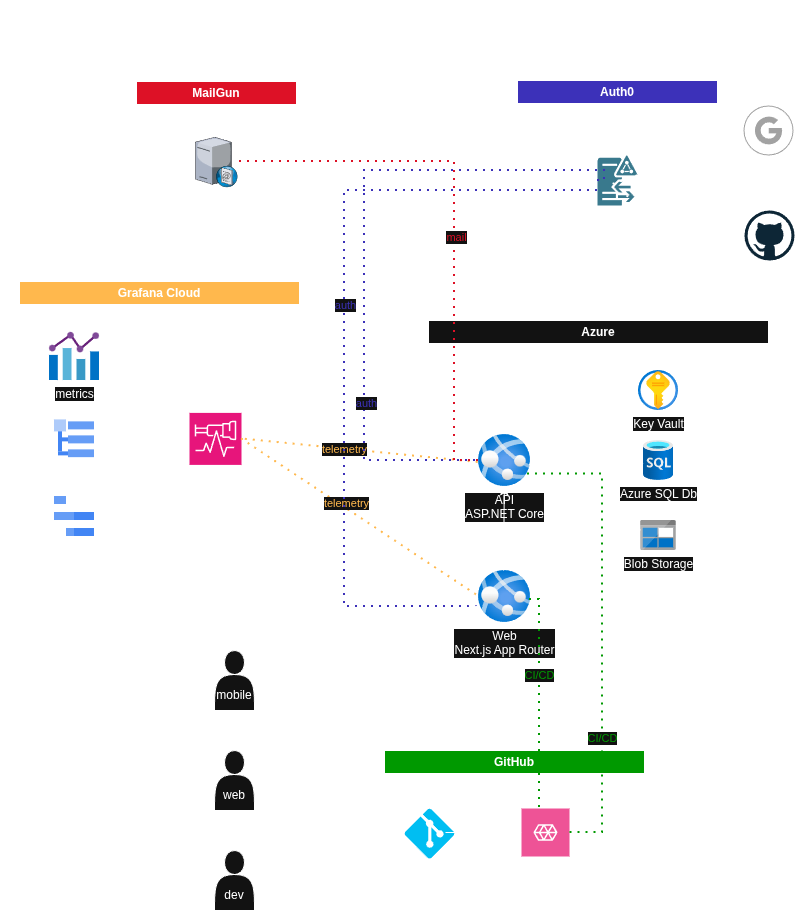
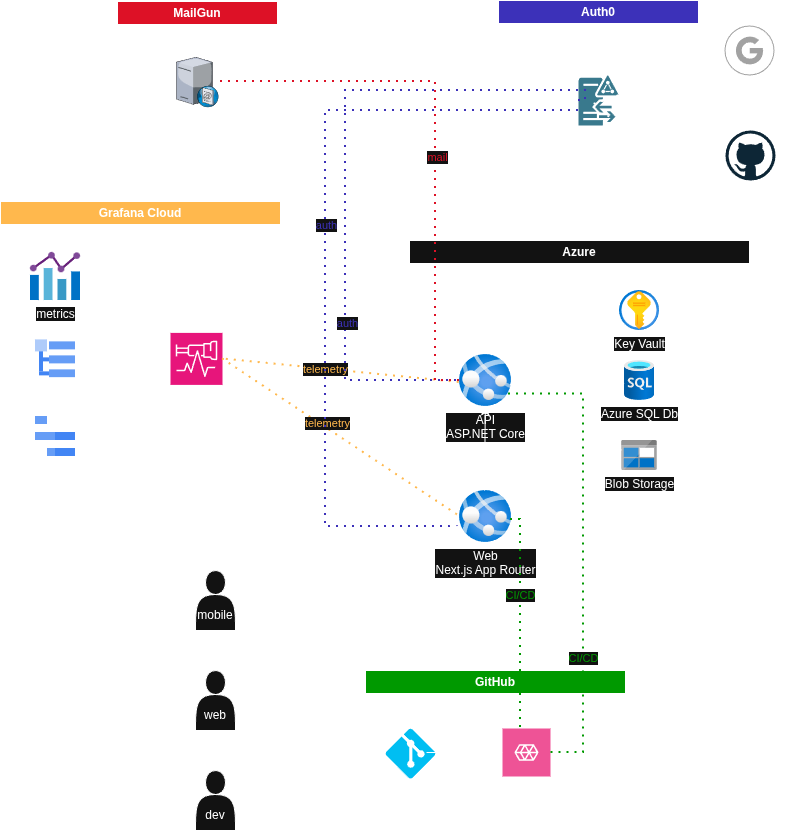
added cloud arch diagram;

diff --git a/README.md b/README.md
@@ -70,6 +70,11 @@ tests/
   Tests.Integration/
 ```
 
+### Cloud Architecture
+See also: [maaldocom-web](link) — the front-end client that consumes this API.
+
+ <img src="/assets/maaldocom-cloud-architecture.png" alt="logo" width="600" />
+
 ## Technology Stack
 
 | Concern | Technology |
